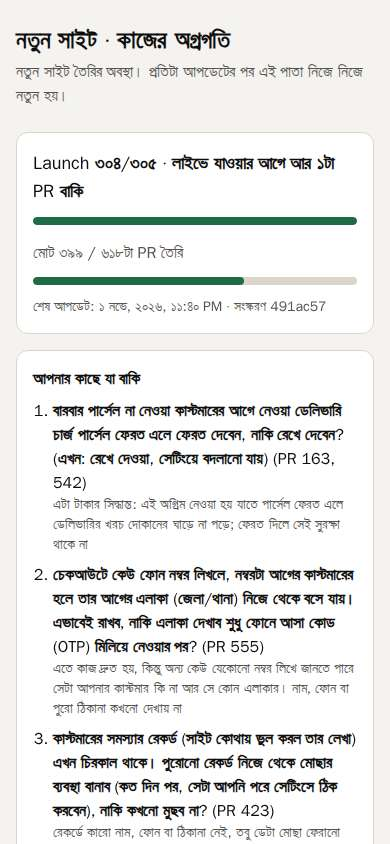
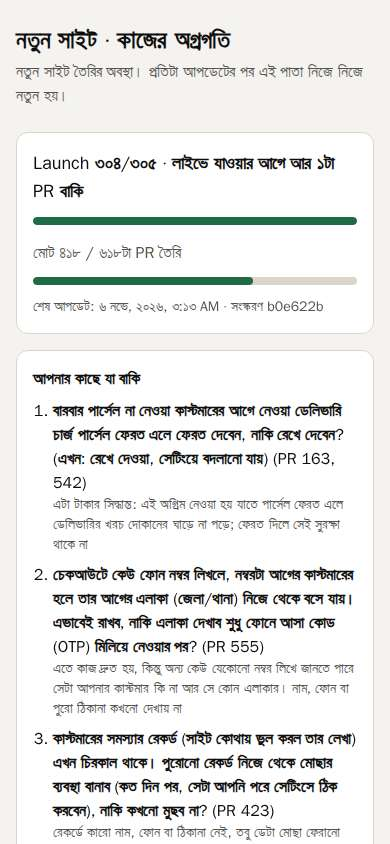
deploy report: b0e622b11cbb OK [skip ci]

Changed region(s): [[0.2462, 0.3081, 0.8308, 0.3697], [0.1538, 0.2773, 0.4615, 0.3081]]

diff --git a/docs/reports/smoke/latest/README.md b/docs/reports/smoke/latest/README.md
@@ -1,8 +1,8 @@
-# Smoke test · 2026-11-05 07:34 (Asia/Dhaka)
+# Smoke test · 2026-11-06 03:13 (Asia/Dhaka)
 
-> **বাংলায়:** সব পাতা ঠিকমতো খুলেছে (384টা পাতা, ফোন আর কম্পিউটারে)। কোনো সমস্যা নেই।
+> **বাংলায়:** সব পাতা ঠিকমতো খুলেছে (402টা পাতা, ফোন আর কম্পিউটারে)। কোনো সমস্যা নেই।
 
-Site: https://new.extas.com.bd · commit `491ac5771af6` · nightly · result **PASS** (384 page views, 0 failed)
+Site: https://new.extas.com.bd · commit `b0e622b11cbb` · after deploy · result **PASS** (402 page views, 0 failed)
 
 | Page | Screen | Answer | Landed on | Result | Screenshot |
 |---|---|:-:|---|---|---|
@@ -192,9 +192,18 @@ Site: https://new.extas.com.bd · commit `491ac5771af6` · nightly · result **P
 | `/admin/marketing/campaigns/new` | phone | 200 | `/admin/marketing/campaigns/new` | ok | — |
 | `/admin/marketing/ad-platforms` | phone | 200 | `/admin/marketing/ad-platforms` | ok | — |
 | `/admin/orders?source=SUPPORT` | phone | 200 | `/admin/orders` | ok | — |
+| `/admin/products/reviews` | phone | 200 | `/admin/products/reviews` | ok | — |
+| `/admin/products/reviews?view=photo` | phone | 200 | `/admin/products/reviews` | ok | — |
+| `/admin/customers/loyalty` | phone | 200 | `/admin/customers/loyalty` | ok | — |
+| `/admin/messages/campaigns` | phone | 200 | `/admin/messages/campaigns` | ok | — |
+| `/admin/marketing/audiences` | phone | 200 | `/admin/marketing/audiences` | ok | — |
+| `/admin/marketing/audiences/new` | phone | 200 | `/admin/marketing/audiences/new` | ok | — |
+| `/admin/support?view=late` | phone | 200 | `/admin/support` | ok | — |
+| `/admin/support/app` | phone | 200 | `/admin/support/app` | ok | — |
+| `/admin/support/analytics` | phone | 200 | `/admin/support/analytics` | ok | — |
 | `/admin/orders/01a197e9-19c1-7ed2-b861-31345807e62e` | phone | 200 | `/admin/orders/01a197e9-19c1-7ed2-b861-31345807e62e` | ok | — |
 | `/admin/customers/01a197e9-19be-7132-9446-cea53e9c5b0a` | phone | 200 | `/admin/customers/01a197e9-19be-7132-9446-cea53e9c5b0a` | ok | — |
-| `/admin/reports/health/history/01a1a434-e17a-7f53-b5e7-228fc2427ff3` | phone | 200 | `/admin/reports/health/history/01a1a434-e17a-7f53-b5e7-228fc2427ff3` | ok | — |
+| `/admin/reports/health/history/01a1a95c-fa4b-7fa3-8c5a-5e5a29d74e36` | phone | 200 | `/admin/reports/health/history/01a1a95c-fa4b-7fa3-8c5a-5e5a29d74e36` | ok | — |
 | `/admin/customers/01a197e9-19be-7132-9446-cea53e9c5b0a?tab=wallet` | phone | 200 | `/admin/customers/01a197e9-19be-7132-9446-cea53e9c5b0a` | ok | — |
 | `/admin/combos?tab=report` | phone | 200 | `/admin/combos` | ok | — |
 | `/admin?home=1` | phone | 200 | `/admin` | ok | [picture](admin-home-1-phone.jpg) |
@@ -384,11 +393,20 @@ Site: https://new.extas.com.bd · commit `491ac5771af6` · nightly · result **P
 | `/admin/marketing/campaigns/new` | desktop | 200 | `/admin/marketing/campaigns/new` | ok | — |
 | `/admin/marketing/ad-platforms` | desktop | 200 | `/admin/marketing/ad-platforms` | ok | — |
 | `/admin/orders?source=SUPPORT` | desktop | 200 | `/admin/orders` | ok | — |
+| `/admin/products/reviews` | desktop | 200 | `/admin/products/reviews` | ok | — |
+| `/admin/products/reviews?view=photo` | desktop | 200 | `/admin/products/reviews` | ok | — |
+| `/admin/customers/loyalty` | desktop | 200 | `/admin/customers/loyalty` | ok | — |
+| `/admin/messages/campaigns` | desktop | 200 | `/admin/messages/campaigns` | ok | — |
+| `/admin/marketing/audiences` | desktop | 200 | `/admin/marketing/audiences` | ok | — |
+| `/admin/marketing/audiences/new` | desktop | 200 | `/admin/marketing/audiences/new` | ok | — |
+| `/admin/support?view=late` | desktop | 200 | `/admin/support` | ok | — |
+| `/admin/support/app` | desktop | 200 | `/admin/support/app` | ok | — |
+| `/admin/support/analytics` | desktop | 200 | `/admin/support/analytics` | ok | — |
 | `/admin/orders/01a197e9-19c1-7ed2-b861-31345807e62e` | desktop | 200 | `/admin/orders/01a197e9-19c1-7ed2-b861-31345807e62e` | ok | — |
 | `/admin/customers/01a197e9-19be-7132-9446-cea53e9c5b0a` | desktop | 200 | `/admin/customers/01a197e9-19be-7132-9446-cea53e9c5b0a` | ok | — |
-| `/admin/reports/health/history/01a1a434-e17a-7f53-b5e7-228fc2427ff3` | desktop | 200 | `/admin/reports/health/history/01a1a434-e17a-7f53-b5e7-228fc2427ff3` | ok | — |
+| `/admin/reports/health/history/01a1a95c-fa4b-7fa3-8c5a-5e5a29d74e36` | desktop | 200 | `/admin/reports/health/history/01a1a95c-fa4b-7fa3-8c5a-5e5a29d74e36` | ok | — |
 | `/admin/customers/01a197e9-19be-7132-9446-cea53e9c5b0a?tab=wallet` | desktop | 200 | `/admin/customers/01a197e9-19be-7132-9446-cea53e9c5b0a` | ok | — |
 | `/admin/combos?tab=report` | desktop | 200 | `/admin/combos` | ok | — |
 | `/admin?home=1` | desktop | 200 | `/admin` | ok | [picture](admin-home-1-desktop.jpg) |
 
-Database (PR 139): ok: 33 tables append-only; the app connects as extas_app.
+Database (PR 139): ok: 34 tables append-only; the app connects as extas_app.

diff --git a/docs/reports/server/deploy-latest.md b/docs/reports/server/deploy-latest.md
@@ -4,13 +4,13 @@ Written by `deploy.yml` after every deploy (`infra/deploy/deploy-report.sh`). Hi
 
 | | |
 |---|---|
-| Commit | `491ac5771af6` |
-| Time (Asia/Dhaka) | 2026-11-01 23:47 |
+| Commit | `b0e622b11cbb` |
+| Time (Asia/Dhaka) | 2026-11-06 03:20 |
 | Result | **OK** |
 | Database migration | ok |
-| Health check on new.extas.com.bd | OK — HTTP 200 from https://new.extas.com.bd/api/health, version 491ac5771af6, colour blue |
-| Smoke test (every page) | OK — 386 page views, signed out and as the admin, phone and desktop (storefront pictures: `docs/reports/smoke/latest/`; the admin pictures stay on the server) |
-| Docs on the server | `491ac5771af6` — README.md + docs/ (2335 files) |
-| Main disk (/) | 120 GB free after the clean-up (was 120 GB), at least 15 GB needed |
-| Live colour | blue |
-| Run log | https://github.com/mehadih32/Extas-Ecommerce-Site/actions/runs/41332407500 |
+| Health check on new.extas.com.bd | OK — HTTP 200 from https://new.extas.com.bd/api/health, version b0e622b11cbb, colour green |
+| Smoke test (every page) | OK — 402 page views, signed out and as the admin, phone and desktop (storefront pictures: `docs/reports/smoke/latest/`; the admin pictures stay on the server) |
+| Docs on the server | `b0e622b11cbb` — README.md + docs/ (2338 files) |
+| Main disk (/) | 118 GB free after the clean-up (was 118 GB), at least 15 GB needed |
+| Live colour | green |
+| Run log | https://github.com/mehadih32/Extas-Ecommerce-Site/actions/runs/42109870701 |

diff --git a/docs/reports/erp-acceptance/latest/README.md b/docs/reports/erp-acceptance/latest/README.md
@@ -2,5 +2,5 @@
 
 **সারকথা:** ডেমো ERP-এর চাবির অপেক্ষায়। মালিক সেটিংস → ERP সংযোগ পাতায় ডেমো দোকানের চাবি দিলে প্রতি রাতে আর প্রতিটা রিলিজের আগে এই পরীক্ষা চলবে।
 
-- 2026-11-05T01:56:53.531Z: waiting for the demo key. Nothing was called; nothing failed.
+- 2026-11-05T21:13:05.685Z: waiting for the demo key. Nothing was called; nothing failed.
 - The practice ERP runs every check in CI (packages/adapters/test/erp-acceptance.test.ts, the books drills).

diff --git a/docs/reports/server/deploy-history.md b/docs/reports/server/deploy-history.md
@@ -83,3 +83,4 @@ One line per deploy, newest last, appended by `deploy.yml`. Time: Asia/Dhaka.
 | 2026-11-01 22:12 | `0f6ac8a037d2` | deploy | OK | ok | OK, smoke OK | — |
 | 2026-11-01 23:21 | `b1be453ad6be` | deploy | OK | ok | OK, smoke OK | — |
 | 2026-11-01 23:47 | `491ac5771af6` | deploy | OK | ok | OK, smoke OK | — |
+| 2026-11-06 03:20 | `b0e622b11cbb` | deploy | OK | ok | OK, smoke OK | — |
